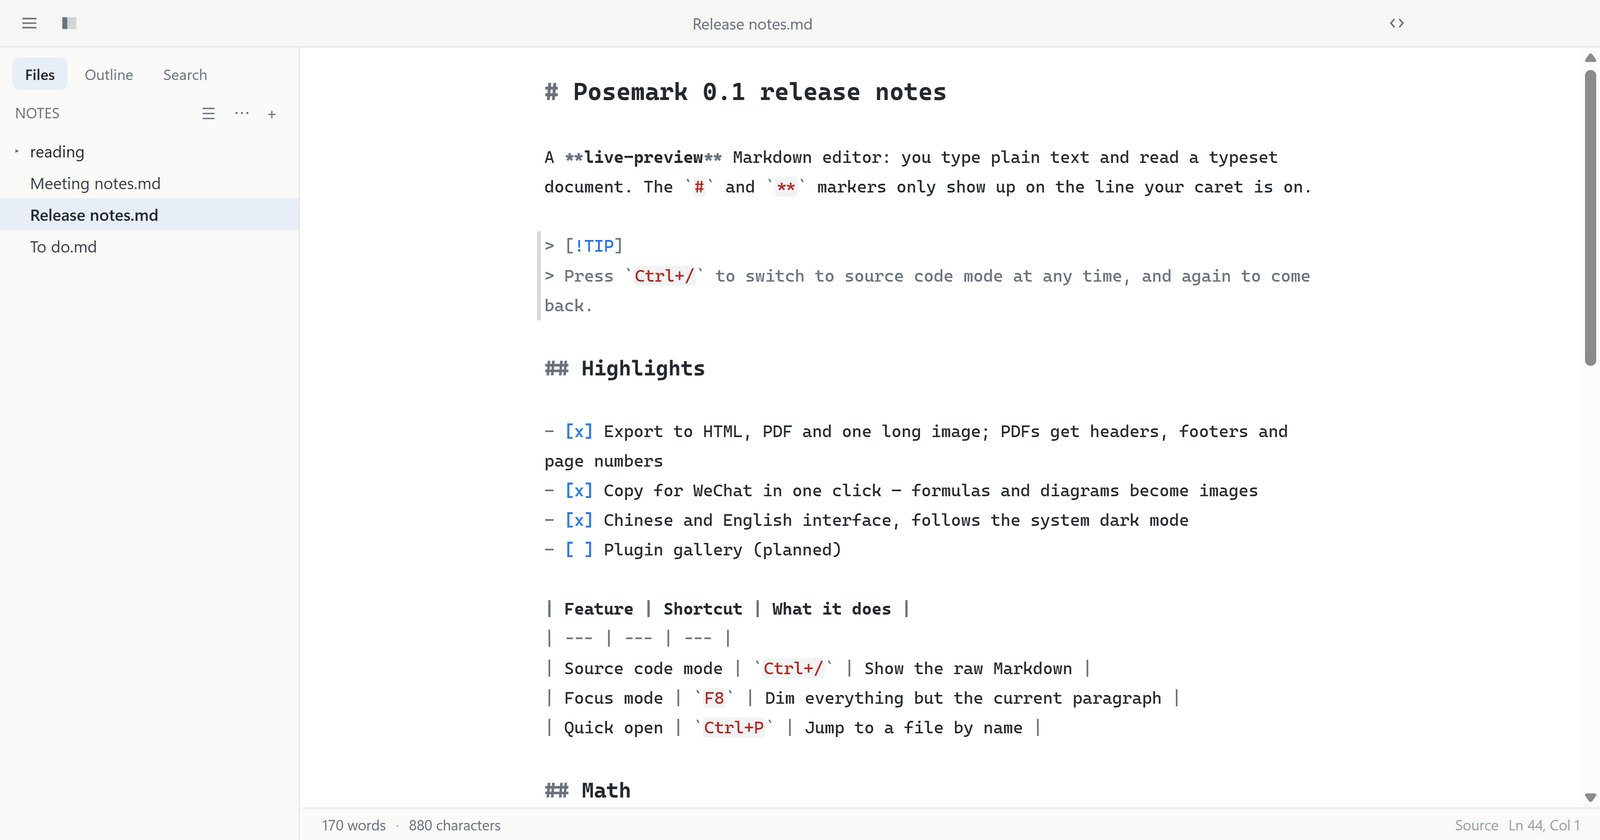
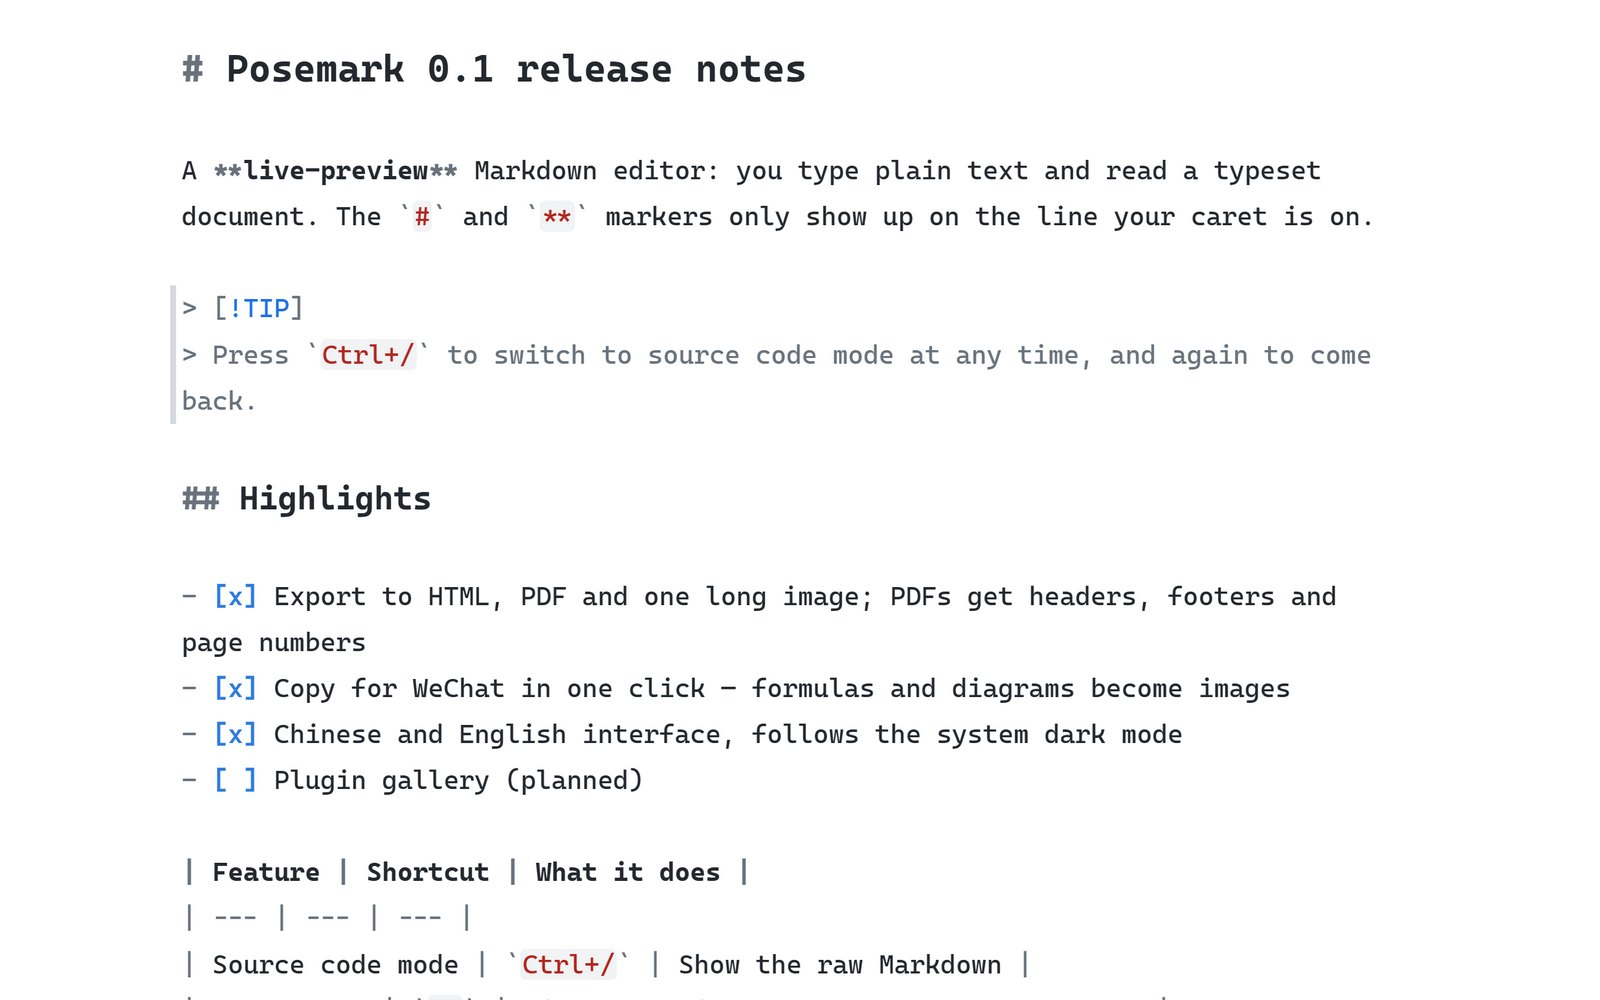
feat(website): crop feature screenshots to what matters
- `--screenshot` mode takes POSEMARK_CLIP, renderer code returning { x, y, width, height }
  in CSS px, and captures only that region
- shots.mjs crops the math and source shots to the document column (1.6 aspect), the dark
  shot to the outline sidebar plus the top of the document, and the export / 公众号 shots to
  the preferences dialog; the hero shot keeps the whole window
- the 公众号 shot waits until the preview has rasterised the formula and diagram instead of
  capturing 600 ms after the panel opens, which left it on "updating…"
- postprocess.cjs logs each JPEG's size; index.html and docs.html carry the per-shot
  width / height attributes
- showcase shots sit on a tinted mat with their own shadow instead of a window frame; the
  export, 公众号 and outline copy follows what the crops show

diff --git a/website/index.html b/website/index.html
@@ -124,15 +124,15 @@
             <li><span lang="zh-CN">图表可右键另存为 SVG / PNG</span><span lang="en">Right-click a diagram to save it as SVG or PNG</span></li>
           </ul>
         </div>
-        <div class="shot"><img data-shot="math" src="assets/screenshots/math-zh.jpg" width="1600" height="840" loading="lazy" alt=""></div>
+        <div class="shot"><img data-shot="math" src="assets/screenshots/math-zh.jpg" width="1600" height="1000" loading="lazy" alt=""></div>
       </div>
 
       <div class="showcase flip">
         <div class="copy">
           <h3><span lang="zh-CN">深色模式与大纲</span><span lang="en">Dark mode and outline</span></h3>
-          <p><span lang="zh-CN">浅色、深色各选一套主题，随系统自动切换。大纲面板可折叠、可筛选，当前所在章节始终高亮。</span><span lang="en">Pick a light and a dark theme and let the system switch between them. The outline folds, filters and keeps your current section highlighted.</span></p>
+          <p><span lang="zh-CN">浅色、深色各选一套主题，随系统自动切换。左侧大纲面板可折叠、可筛选，当前所在章节始终高亮，点一下即可跳转。</span><span lang="en">Pick a light and a dark theme and let the system switch between them. The outline panel on the left folds, filters, keeps your current section highlighted and jumps on a click.</span></p>
         </div>
-        <div class="shot"><img data-shot="dark" src="assets/screenshots/dark-zh.jpg" width="1600" height="840" loading="lazy" alt=""></div>
+        <div class="shot"><img data-shot="dark" src="assets/screenshots/dark-zh.jpg" width="1600" height="876" loading="lazy" alt=""></div>
       </div>
 
       <div class="showcase">
@@ -140,28 +140,28 @@
           <h3><span lang="zh-CN">随时切回源代码</span><span lang="en">Source code, one shortcut away</span></h3>
           <p><span lang="zh-CN">按 <kbd>Ctrl</kbd> + <kbd>/</kbd> 进入源代码模式：等宽字体、语法高亮，标题按级别放大，代码块和引用依然一目了然。</span><span lang="en">Press <kbd>Ctrl</kbd> + <kbd>/</kbd> for source mode: monospace, syntax-highlighted, headings sized by level, fences and quotes still easy to spot.</span></p>
         </div>
-        <div class="shot"><img data-shot="source" src="assets/screenshots/source-zh.jpg" width="1600" height="840" loading="lazy" alt=""></div>
+        <div class="shot"><img data-shot="source" src="assets/screenshots/source-zh.jpg" width="1600" height="1000" loading="lazy" alt=""></div>
       </div>
 
       <div class="showcase flip">
         <div class="copy">
           <h3><span lang="zh-CN">导出得体的 PDF 与网页</span><span lang="en">Exports that look the part</span></h3>
-          <p><span lang="zh-CN">纸张、边距、页眉页脚、页码、一级标题分页，都能在设置里改，也能在文档的 front matter 里单独指定。</span><span lang="en">Paper, margins, headers, footers, page numbers and page breaks are all settings — and every document can override them in its front matter.</span></p>
+          <p><span lang="zh-CN">导出主题、默认文件夹、纸张、边距、页眉页脚、页码、一级标题分页，都集中在「偏好设置 › 导出」里，也能在文档的 front matter 里单独指定。</span><span lang="en">Export theme, default folder, paper, margins, headers, footers, page numbers and page breaks all live under Preferences › Export — and every document can override them in its front matter.</span></p>
           <ul>
             <li><span lang="zh-CN">HTML 自包含，可带可折叠大纲</span><span lang="en">Self-contained HTML, optional outline panel</span></li>
             <li><span lang="zh-CN">整篇导出为一张长图</span><span lang="en">The whole document as one long image</span></li>
             <li><span lang="zh-CN">作者、关键词写入 PDF 属性</span><span lang="en">Author and keywords in the PDF properties</span></li>
           </ul>
         </div>
-        <div class="shot"><img data-shot="export" src="assets/screenshots/export-zh.jpg" width="1600" height="840" loading="lazy" alt=""></div>
+        <div class="shot"><img data-shot="export" src="assets/screenshots/export-zh.jpg" width="1600" height="1095" loading="lazy" alt=""></div>
       </div>
 
       <div class="showcase">
         <div class="copy">
           <h3><span lang="zh-CN">一键复制到微信公众号</span><span lang="en">Copy straight into WeChat</span></h3>
-          <p><span lang="zh-CN">公众号会丢掉所有样式表，Posemark 把排版写成行内样式再放进剪贴板。配色、字号、行距、二级标题样式都能调，右侧实时预览粘贴后的效果。</span><span lang="en">WeChat's editor drops every stylesheet, so Posemark writes the formatting as inline styles. Tune colours, font size, spacing and heading style with a live preview of the pasted result.</span></p>
+          <p><span lang="zh-CN">公众号会丢掉所有样式表，Posemark 把排版写成行内样式再放进剪贴板。左边挑样式、强调色、字号和行距，右边的手机预览立刻显示粘贴后的效果，公式和图表自动转成图片。</span><span lang="en">WeChat's editor drops every stylesheet, so Posemark writes the formatting as inline styles. Pick a style, accent colour, font size and spacing on the left; the phone preview on the right shows the pasted result at once, with formulas and diagrams turned into images.</span></p>
         </div>
-        <div class="shot"><img data-shot="wechat" src="assets/screenshots/wechat-zh.jpg" width="1600" height="840" loading="lazy" alt=""></div>
+        <div class="shot"><img data-shot="wechat" src="assets/screenshots/wechat-zh.jpg" width="1600" height="844" loading="lazy" alt=""></div>
       </div>
     </div>
   </section>

diff --git a/website/docs.html b/website/docs.html
@@ -168,7 +168,7 @@
         <li>mhchem (<code>\ce{H2O}</code>) and the common physics-package commands (<code>\dv</code>, <code>\abs</code>, <code>\ket</code>…) are built in.</li>
       </ul>
     </div>
-    <div class="shot"><img data-shot="math" src="assets/screenshots/math-zh.jpg" width="1600" height="840" loading="lazy" alt=""></div>
+    <div class="shot"><img data-shot="math" src="assets/screenshots/math-zh.jpg" width="1600" height="1000" loading="lazy" alt=""></div>
 
     <!-- ============================================================ diagrams -->
     <h2 id="diagrams"><span lang="zh-CN">图表</span><span lang="en">Diagrams</span></h2>
@@ -211,7 +211,7 @@ flowchart LR
       <p>Headers and footers split into <code>left | center | right</code> and accept <code>${title}</code>, <code>${author}</code>, <code>${today}</code>, <code>${pageNo}</code>, <code>${pageCount}</code> and any front matter key — e.g. a footer of <code>${title} | | ${pageNo} / ${pageCount}</code>.</p>
       <p><code>title</code>, <code>author</code>, <code>description</code> and <code>keywords</code> from the front matter go into the PDF's document properties. The export theme, default folder and what happens after exporting live in <b>Preferences › Export</b>.</p>
     </div>
-    <div class="shot"><img data-shot="export" src="assets/screenshots/export-zh.jpg" width="1600" height="840" loading="lazy" alt=""></div>
+    <div class="shot"><img data-shot="export" src="assets/screenshots/export-zh.jpg" width="1600" height="1095" loading="lazy" alt=""></div>
 
     <!-- ============================================================ front matter -->
     <h2 id="front-matter"><span lang="zh-CN">front matter 设置</span><span lang="en">Front matter settings</span></h2>
@@ -261,7 +261,7 @@ html-outline: true
       </ul>
       <p><b>Preferences › WeChat</b> tunes the colour theme, accent colour, heading style, font size, line height, spacing and first-line indent, with a live preview of the pasted result.</p>
     </div>
-    <div class="shot"><img data-shot="wechat" src="assets/screenshots/wechat-zh.jpg" width="1600" height="840" loading="lazy" alt=""></div>
+    <div class="shot"><img data-shot="wechat" src="assets/screenshots/wechat-zh.jpg" width="1600" height="844" loading="lazy" alt=""></div>
 
     <!-- ============================================================ themes -->
     <h2 id="themes"><span lang="zh-CN">主题与自定义 CSS</span><span lang="en">Themes and custom CSS</span></h2>
@@ -283,7 +283,7 @@ html-outline: true
         <li>a whole <code>&lt;name&gt;.css</code> becomes a theme of its own (start it with <code>/* dark */</code> to mark it dark).</li>
       </ul>
     </div>
-    <div class="shot"><img data-shot="dark" src="assets/screenshots/dark-zh.jpg" width="1600" height="840" loading="lazy" alt=""></div>
+    <div class="shot"><img data-shot="dark" src="assets/screenshots/dark-zh.jpg" width="1600" height="876" loading="lazy" alt=""></div>
 
     <!-- ============================================================ settings -->
     <h2 id="settings"><span lang="zh-CN">设置与草稿</span><span lang="en">Settings and drafts</span></h2>

diff --git a/website/style.css b/website/style.css
@@ -127,6 +127,12 @@ section.soft { background: var(--bg-soft); }
 .showcase li { padding-left: 26px; position: relative; margin: 8px 0; }
 .showcase li::before { content: ""; position: absolute; left: 4px; top: .7em; width: 10px; height: 10px; border-radius: 3px; background: var(--accent); }
 .shot { border-radius: 12px; overflow: hidden; box-shadow: var(--shadow), 0 0 0 1px var(--border); background: var(--bg-card); }
+/* feature shots are cropped to the part that matters, so they sit on a tinted mat instead of a window frame */
+.showcase .shot {
+  padding: 22px; border-radius: 18px; box-shadow: none;
+  background: linear-gradient(135deg, color-mix(in srgb, var(--brand) 16%, var(--bg-soft)), color-mix(in srgb, #7a5cff 14%, var(--bg-soft)));
+}
+.showcase .shot img { border-radius: 10px; box-shadow: var(--shadow), 0 0 0 1px var(--border); }
 
 .downloads { display: grid; grid-template-columns: repeat(3, 1fr); gap: 18px; }
 .dl { background: var(--bg-card); border: 1px solid var(--border); border-radius: var(--radius); padding: 28px; display: flex; flex-direction: column; }

diff --git a/src/main/main.js b/src/main/main.js
@@ -415,7 +415,14 @@ function installVerificationModes(win, entry) {
           const typed = await win.webContents.executeJavaScript('window.__ink.view().state.doc.toString()');
           console.log('TYPED DOC:', JSON.stringify(typed));
         }
-        const img = await win.webContents.capturePage();
+        // POSEMARK_CLIP: renderer code returning { x, y, width, height } in CSS px; only that
+        // region is captured (the website's feature screenshots crop to the part that matters)
+        let clip;
+        if (process.env.POSEMARK_CLIP) {
+          clip = await win.webContents.executeJavaScript(process.env.POSEMARK_CLIP);
+          console.log('CLIP:', JSON.stringify(clip));
+        }
+        const img = await win.webContents.capturePage(clip);
         fs.writeFileSync(out, img.toPNG());
         console.log('screenshot written', out);
       } catch (err) {

diff --git a/README.md b/README.md
@@ -344,8 +344,9 @@ pnpm exec electron . samples/demo.md --wx-test=tmp/wx
 
 `POSEMARK_DEBUG=1` forwards renderer console output to the terminal, `POSEMARK_DUMP=1|2|3` dumps the
 syntax tree / visible line texts / block widgets, and `POSEMARK_SCROLL=<px>` scrolls before the capture.
-`POSEMARK_JS=<script>` runs renderer code before the capture and `POSEMARK_TYPE=<text>` types real
-keystrokes into the editor (that is how the smart-typography input handler is verified).
+`POSEMARK_JS=<script>` runs renderer code before the capture, `POSEMARK_CLIP=<script>` runs code that
+returns `{ x, y, width, height }` (CSS px) so only that region is captured, and `POSEMARK_TYPE=<text>`
+types real keystrokes into the editor (that is how the smart-typography input handler is verified).
 
 ## Layout
 
